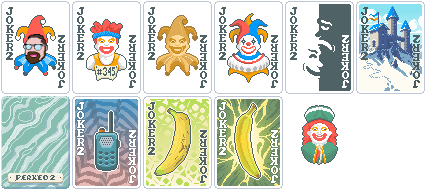
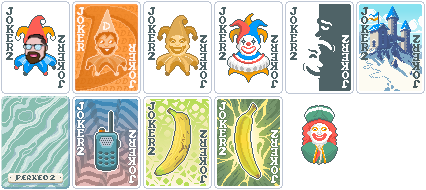
Used custom artwork from the concept creator. Updated demo.

Changed region(s): [[0.1526, 0.0, 0.3357, 0.5]]

diff --git a/README.md b/README.md
@@ -7,4 +7,4 @@ BrandonE's Jokers and credited implementations of Joker ideas from various other
 
 ### Dunce 
 
-Copies the ability of the rightmost **Joker** and disables **Joker** to the right. By [u/Spicy_burritos](https://www.reddit.com/r/balatro/comments/1insn7s/joker_concept_dunce/). [Demo](https://youtu.be/0PFoVva4CtI)
+Copies the ability of the rightmost **Joker** and disables **Joker** to the right. By [u/Spicy_burritos](https://www.reddit.com/r/balatro/comments/1insn7s/joker_concept_dunce/). [Demo](https://www.youtube.com/watch?v=sGT7FapBJec)
